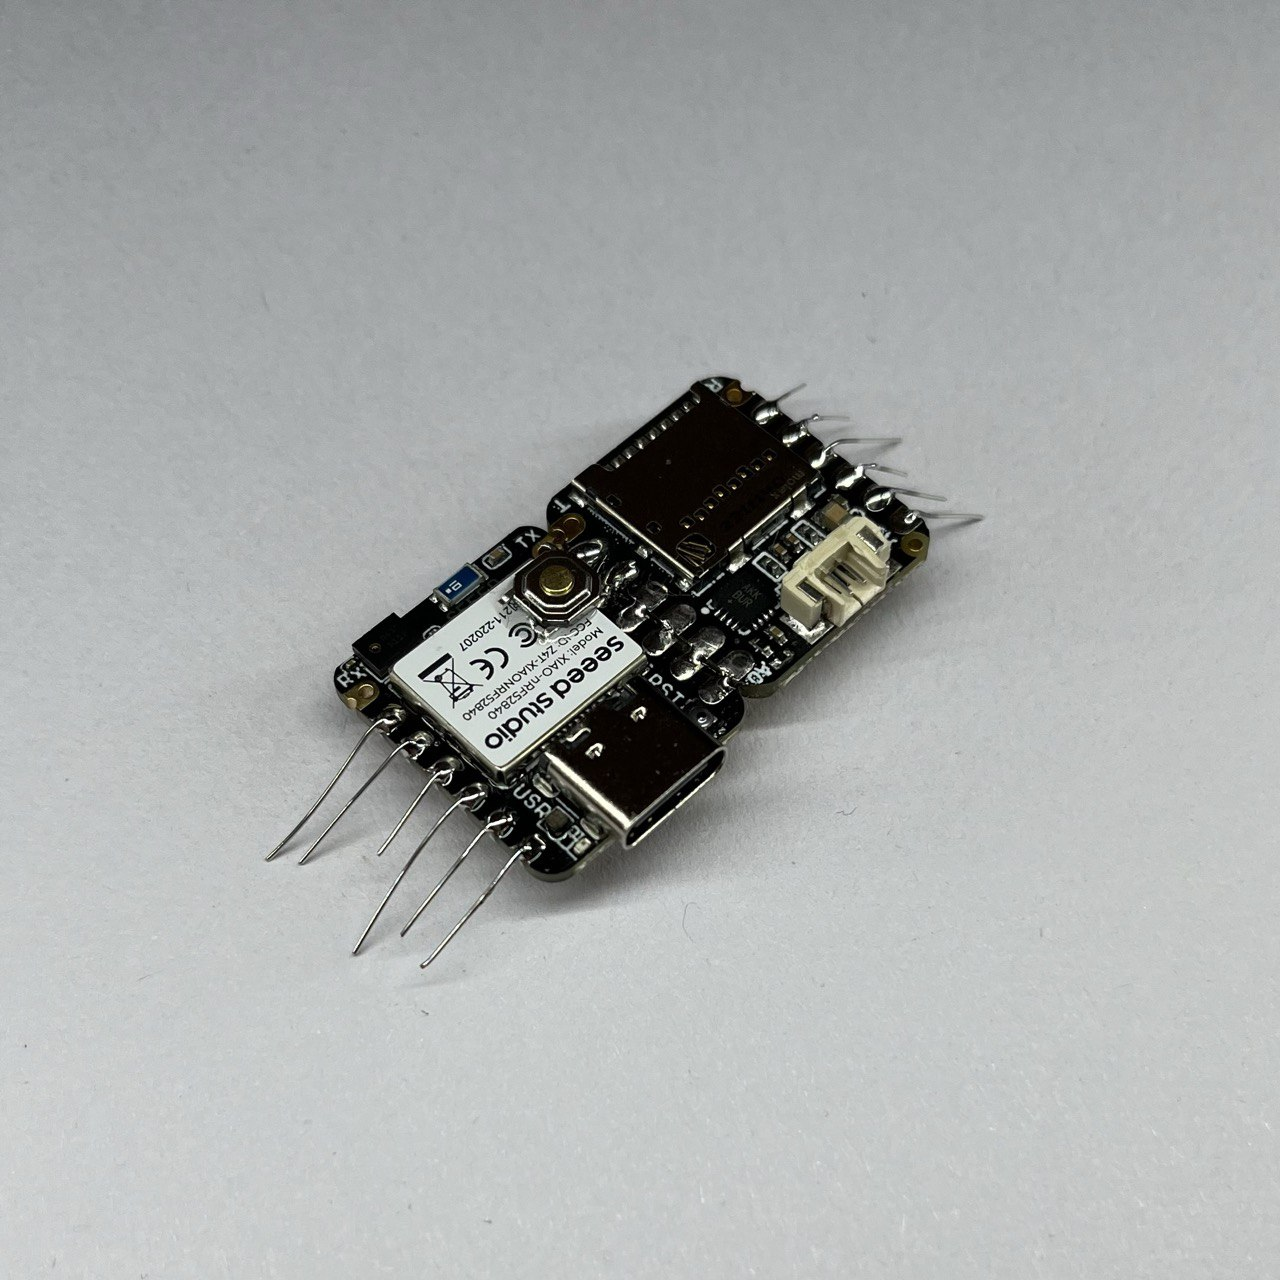
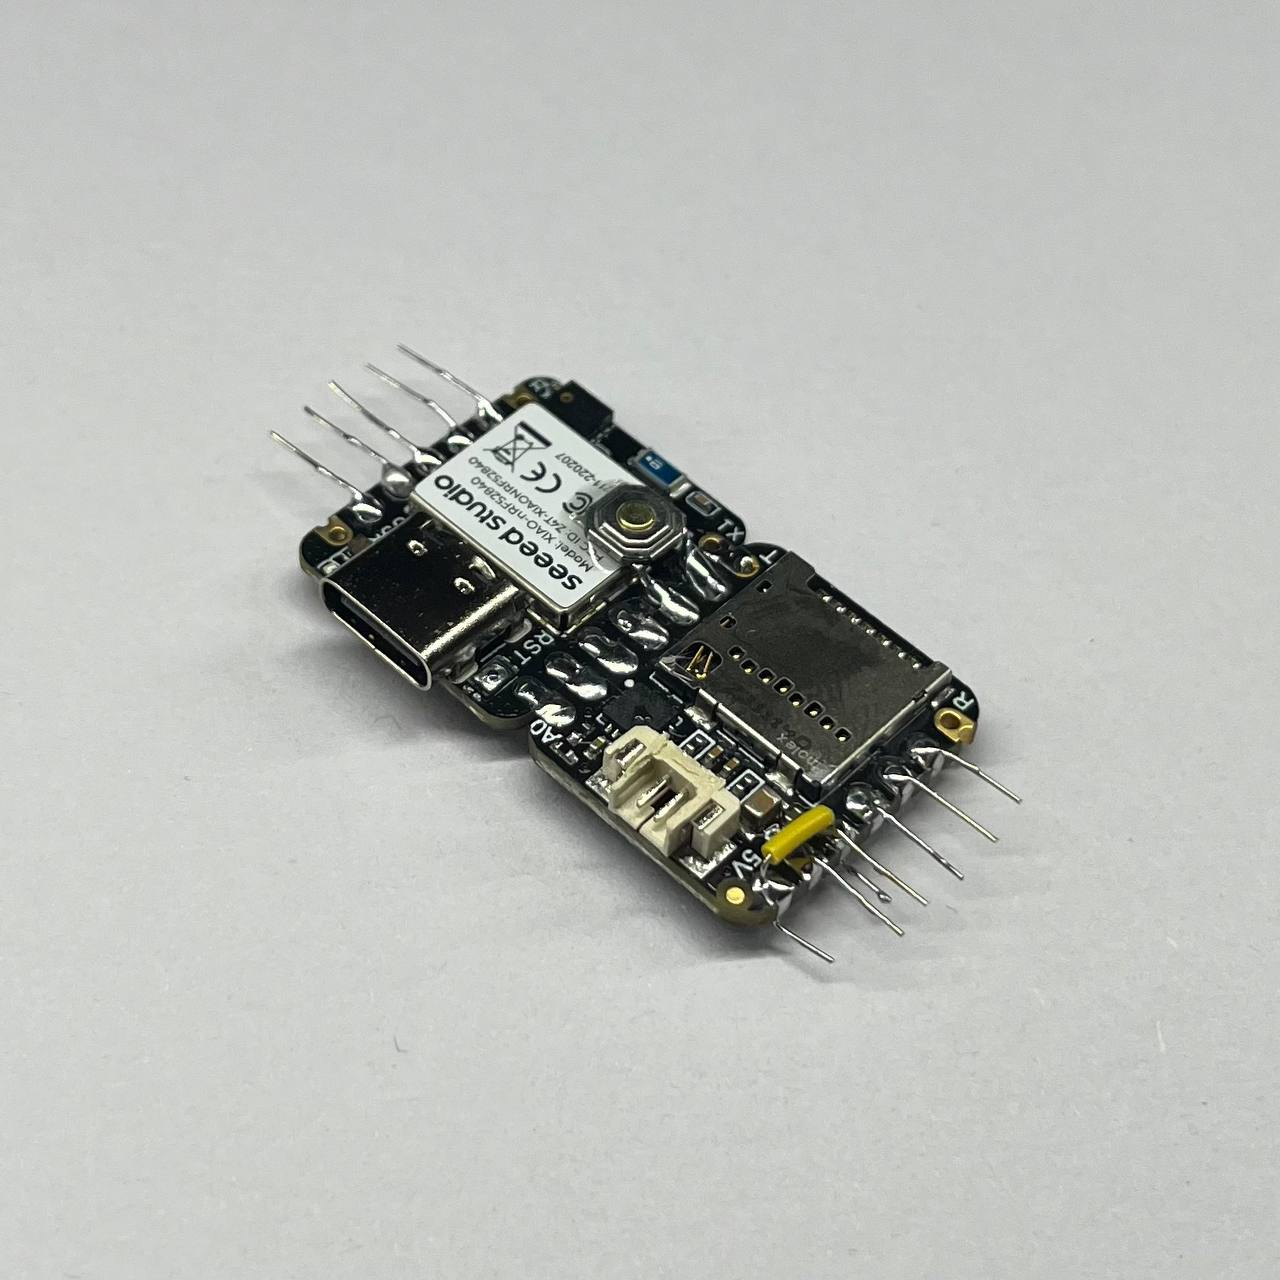
speaker hardware bug fix

diff --git a/Friend/hardware/triangle v2 w memory/README.md b/Friend/hardware/triangle v2 w memory/README.md
@@ -1,3 +1,5 @@
+> ⚠ WARNING: For the proper function of the speaker, the circuit diagram and assembly steps have been slightly modified. If you possess a device assembled before August 23, 2024, you need to modify it. Please refer to the [Speaker function correction for earlier models](#speaker-function-correction-for-earlier-models) section for detailed instructions.
+
 > ⚠ Disclaimer: This device is currently a developer version that has not been fully tested. Some new functionality may not be fully covered by the firmware.
 
 # Omi Triangle v2
@@ -30,6 +32,7 @@ Estimated Time: 50 min
    - [Step 9: Attach the Speaker to the Enclosure](#step-9-attach-the-speaker-to-the-enclosure)
    - [Step 10: Microphone Noise Isolation (Optional)](#step-10-microphone-noise-isolation-optional)
    - [Step 11: Assemble the Device](#step-11-assemble-the-device)
+4. [Speaker function correction for earlier models](#speaker-function-correction-for-earlier-models)
 
 ---
 
@@ -61,6 +64,7 @@ It is recommended to print both versions and choose the most appropriate one bas
 - **Precision tweezers**
 - **Craft knife**
 - **Cyanoacrylate glue (aka super glue)**
+- **Hot glue gun**
 - **Thin double-sided tape**
 - **Ruler or caliper**
 - **Isopropyl alcohol and cotton swabs**
@@ -148,7 +152,7 @@ It is recommended to print both versions and choose the most appropriate one bas
 
 ### Step 4: Solder board edges with wire
 
-1. Cut six pieces of solid-core wire, each at least 55 mm long.
+1. Cut five pieces of solid-core wire, each at least 55 mm long.
 
 2. Strip an equal amount of insulation from both ends of each wire, ensuring the unstripped length is exactly 34 mm.
 
@@ -156,20 +160,31 @@ It is recommended to print both versions and choose the most appropriate one bas
 
 ⚠ Warning: Ensure the unstripped wire length is exactly 34 mm to fit properly in the case. Shortening or lengthening it by even 1 mm will prevent proper fitting.
 
-3. Flip the boards. Insert the wires into the holes and bend the ends as shown.
+3. Cut an additional piece of wire with unstripped length of 5 mm. 
 
-   ![Wire placement front](pics/17_wire_placement_front.jpg)
-   ![Wire placement back](pics/18_wire_placement_back.jpg)
+   ![Cut wires 2](pics/16_cut_wires_2.jpg)
 
-4. Apply a small amount of flux to each hole you'll be soldering.
+4. Insert the long wires into the holes and bend the ends as shown.
 
-5. Flip the boards one more time -- it's easier to solder them from the front side. Solder each wire end, starting from the top. Hold the iron on each joint for 2-3 seconds.
+   ![Long wire placement front](pics/17_long_wire_placement_front.jpg)
+   ![Long wire placement back](pics/18_long_wire_placement_back.jpg)
+
+5. Insert the short wire into the 5V and 3v3 holes (as shown in the photo). Allow 1-2 mm distance between the board and the wire (as not shown in the photo). Bend the ends.
+
+   ![Short wire placement](pics/18_short_wire_placement.jpg)
+   
+6. Apply a small amount of flux to each hole you'll be soldering.
+
+7. Solder the wires from the front side. Solder each wire end, starting from the top. Hold the iron on each joint for 2-3 seconds.
 
    ![Wires soldered front](pics/19_wires_soldered_front.jpg)
+   ![Wires soldered back](pics/19_wires_soldered_back.jpg)
+   ![Wires soldered side](pics/19_wires_soldered_side.jpg)
 
-6. Trim any excess wire flush with the board surface.
+8. Trim any excess wire flush with the board surface.
 
-   ![Trimmed wires](pics/20_trimmed_wires.jpg)
+   ![Trimmed wires front](pics/20_trimmed_wires_front.jpg)
+   ![Trimmed wires back](pics/20_trimmed_wires_back.jpg)
 
 
 ### Step 5: Solder the speaker
@@ -283,10 +298,38 @@ Allow the board to air dry completely before proceeding.
    b. Gently snap the cover into place, ensuring all edges are secure.
 
 3. If using the low-tolerance top cover:
-   a. Apply a thin line of glue around the edge of the bottom part.
+   a. Apply small dots of hot glue sparingly around the edge of the bottom part. Focus on corners and a few points along each side.
    b. Carefully place the top cover onto the bottom part.
-   c. Hold in place until the glue sets.
+   c. Press gently and hold in place until the glue sets.
 
-4. Once assembled, gently shake the device to ensure no parts are loose inside.
+💡 Tip: Use just enough glue to secure the cover while allowing for potential future disassembly. Aim for a balance between a secure fit and ease of reopening if needed.
 
-    ![Final result](pics/38_final_result.jpg)
+   ![Final result](pics/38_final_result.jpg)
+
+---
+
+## Speaker function correction for earlier models
+
+> The 5V contact on the board, originally intended for speaker power, does not provide voltage when the device is battery-powered. In fact, there is no 5V signal available at all in battery mode. This modification creates a jumper to utilize the 3.3V supply from the board, which is sufficient to drive the speaker in all power states.
+
+
+For devices assembled before August 23, 2024, follow these steps to ensure proper speaker functionality:
+
+1. Remove the top cover.
+2. Extract the board assembly from the enclosure.
+3. Detach the battery from the board assembly, taking care not to damage the connections.
+4. Locate the wire closest to the USB port and cut it as shown in the image below.
+
+    ![Uncut wire near USB port](pics/99_uncut_wire_near_usb_port.jpg)
+    ![Cut wire near USB port](pics/99_cut_wire_near_usb_port.jpg)
+
+5. Using the cut wire, create a jumper between the designated board pads as illustrated.
+
+    ![Jumper wire](pics/99_jumper_wire.jpg)
+
+6. Solder the jumper wire securely between the 5V and 3v3 pads.
+
+    ![Soldered jumper wire](pics/99_soldered_jumper_wire.jpg)
+
+7. Ensure that the new jumper wire does not create any short circuits with surrounding components.
+8. Reassemble the device by following Steps 8 and 11 from the main assembly instructions.
